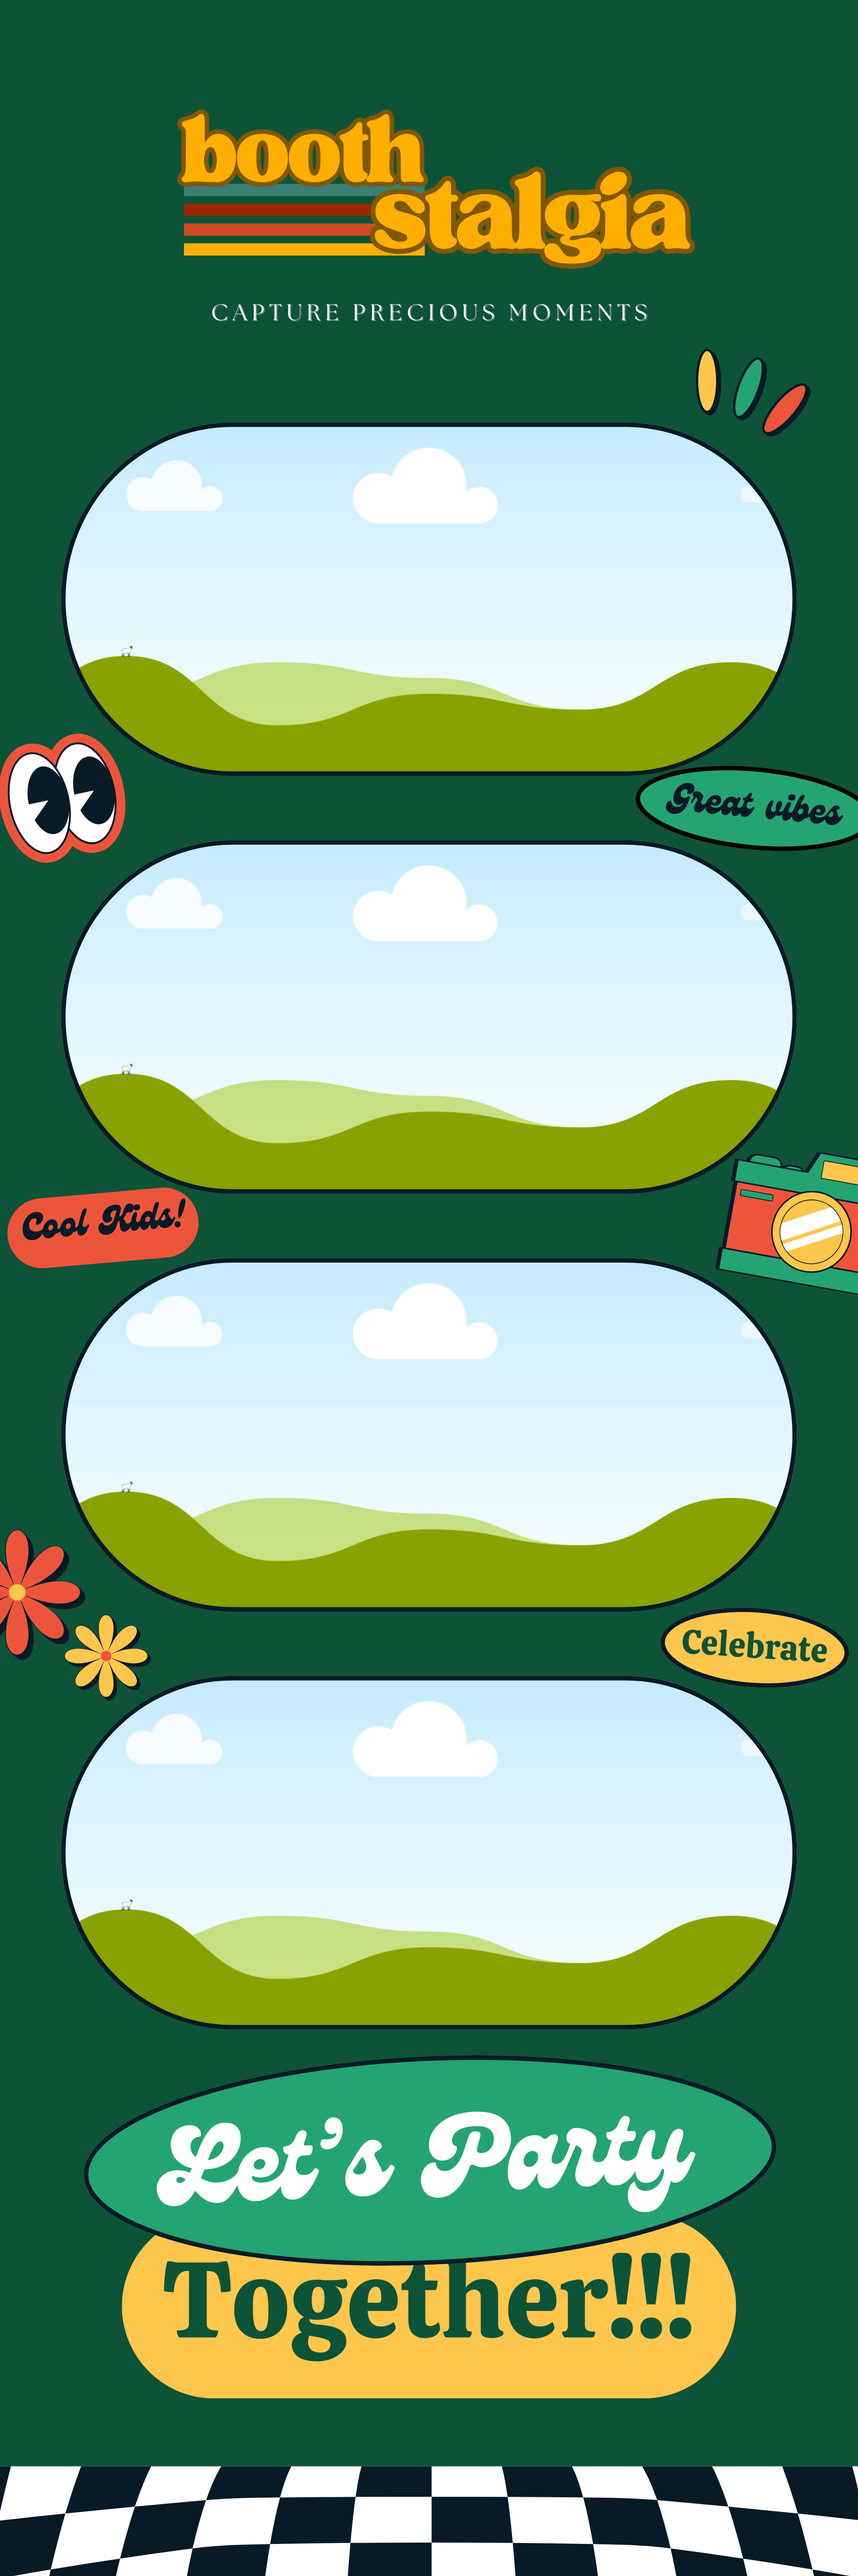
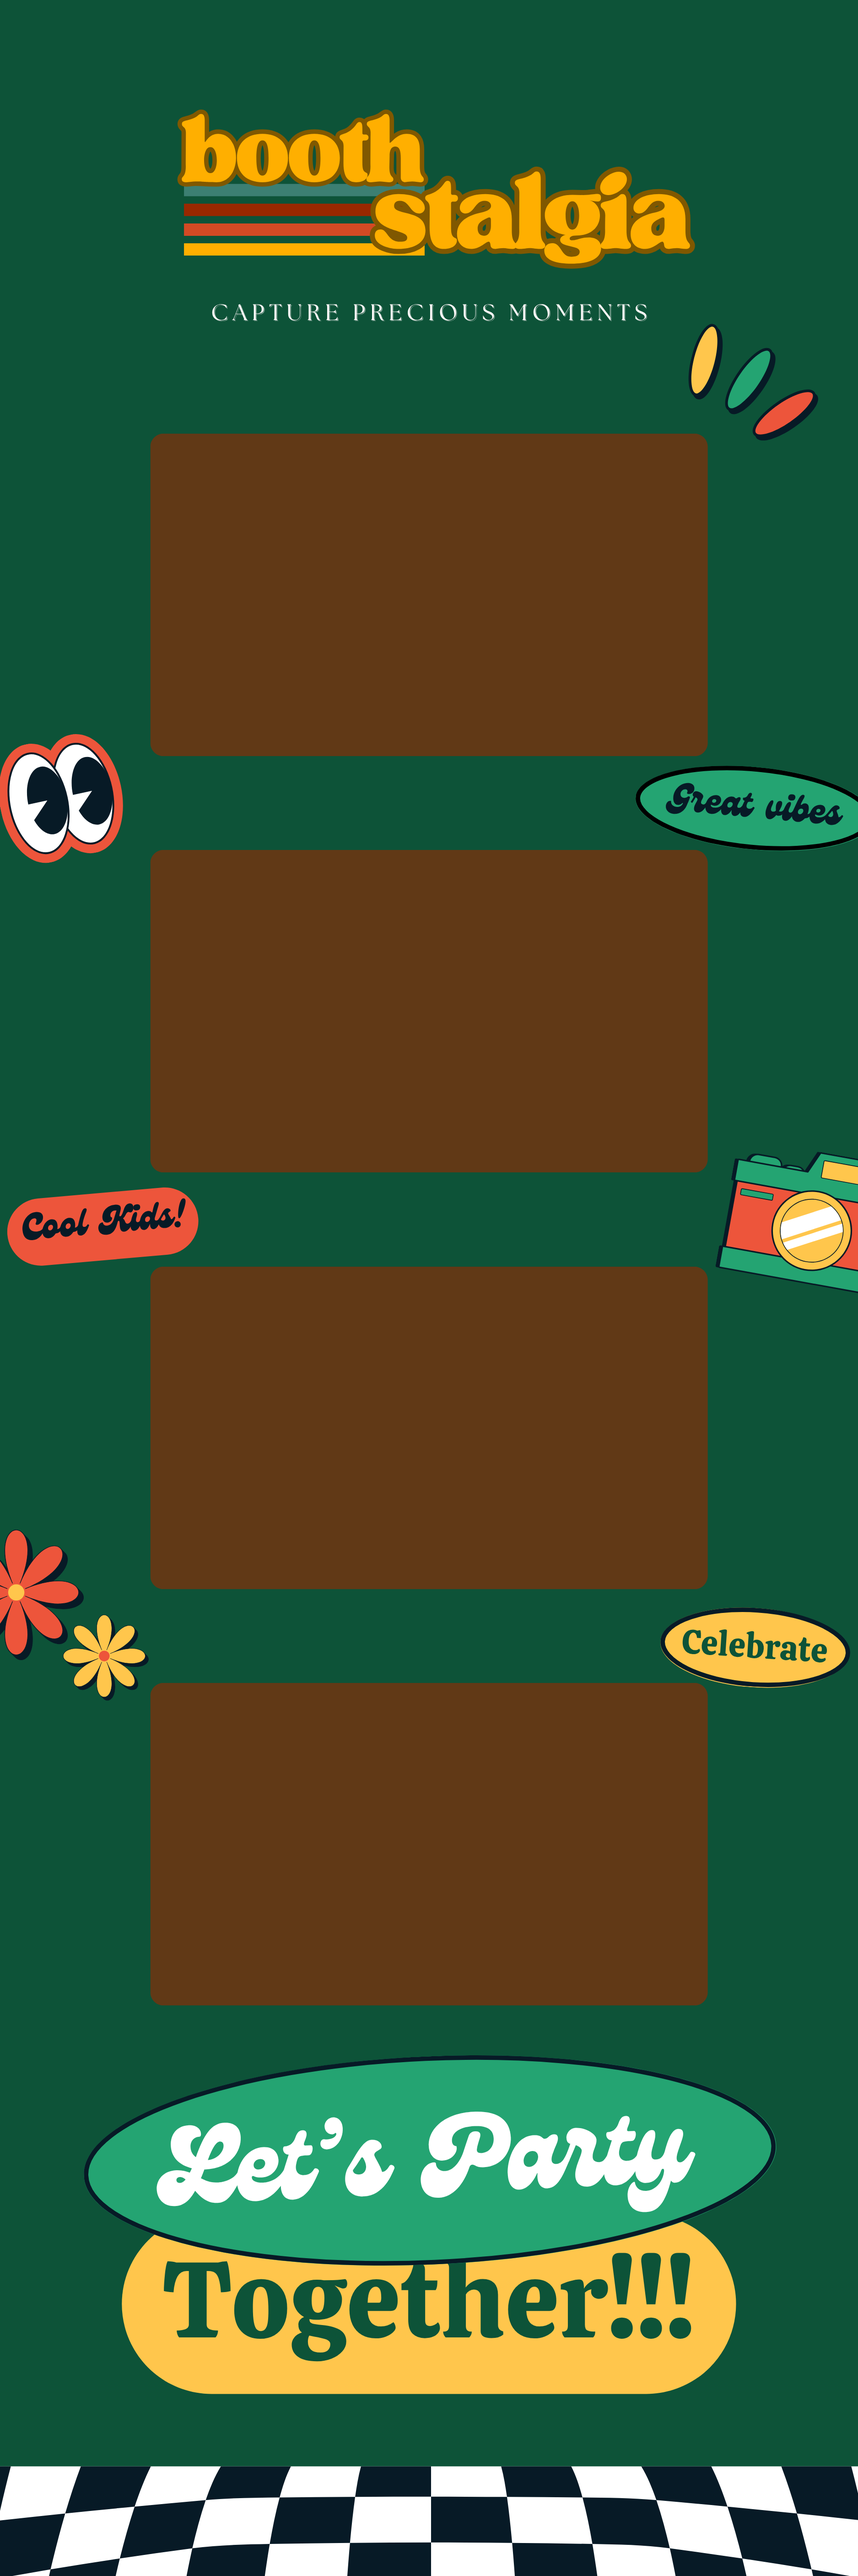
make sure everything update

diff --git a/src/components/ChooseFrame.jsx b/src/components/ChooseFrame.jsx
@@ -4,16 +4,52 @@ import React, { useRef, useEffect } from "react";
 import BoothButton from "./BoothButton";
 import { downloadImage } from "../utils/imageUtils.js";
 
-// Impor frame-frame Anda
+// 1. Impor semua gambar frame Anda
 import frame1Src from "../assets/frames/Blue-Cute-Heart.png";
-// import frame2Src from '../assets/frames/Green-Dark-Green.png';
+import frame2Src from "../assets/frames/Green-Dark-Green.png";
+import frame3Src from "../assets/frames/Green-Light-Yellow.png";
+import frame4Src from "../assets/frames/Neon-Green-Purple.png";
 
 const frameOptions = [
   { id: "frame1", src: frame1Src },
-  // { id: "frame2", src: frame2Src },
+  { id: "frame2", src: frame2Src },
+  { id: "frame3", src: frame3Src },
+  { id: "frame4", src: frame4Src },
 ];
 
-// FUNGSI BANTUAN untuk menggambar foto dengan sudut tumpul
+// 2. Buat "Peta Layout" untuk setiap frame
+// Setiap ID frame memiliki set koordinatnya sendiri.
+const frameLayouts = {
+  frame1: [
+    { x: 330, y: 620, w: 1210, h: 700, radius: 20 },
+    { x: 330, y: 1690, w: 1210, h: 700, radius: 20 },
+    { x: 330, y: 2750, w: 1210, h: 700, radius: 20 },
+    { x: 330, y: 3810, w: 1210, h: 700, radius: 20 },
+  ],
+  frame2: [
+    // PENTING: Ganti angka ini dengan hasil pengukuran Anda untuk frame2
+    { x: 325, y: 945, w: 1230, h: 710, radius: 20 },
+    { x: 325, y: 1850, w: 1230, h: 710, radius: 20 },
+    { x: 325, y: 2760, w: 1230, h: 710, radius: 20 },
+    { x: 325, y: 3670, w: 1230, h: 710, radius: 20 },
+  ],
+  frame3: [
+    // PENTING: Ganti angka ini dengan hasil pengukuran Anda untuk frame2
+    { x: 325, y: 650, w: 1230, h: 710, radius: 20 },
+    { x: 325, y: 1565, w: 1230, h: 710, radius: 20 },
+    { x: 325, y: 2475, w: 1230, h: 710, radius: 20 },
+    { x: 325, y: 3380, w: 1230, h: 710, radius: 20 },
+  ],
+  frame4: [
+    // PENTING: Ganti angka ini dengan hasil pengukuran Anda untuk frame2
+    { x: 325, y: 945, w: 1230, h: 710, radius: 20 },
+    { x: 325, y: 1850, w: 1230, h: 710, radius: 20 },
+    { x: 325, y: 2760, w: 1230, h: 710, radius: 20 },
+    { x: 325, y: 3670, w: 1230, h: 710, radius: 20 },
+  ],
+};
+
+// Fungsi bantuan untuk menggambar sudut tumpul
 function drawRoundedImage(ctx, image, x, y, width, height, radius) {
   ctx.save();
   ctx.beginPath();
@@ -27,9 +63,9 @@ function drawRoundedImage(ctx, image, x, y, width, height, radius) {
   ctx.lineTo(x, y + radius);
   ctx.quadraticCurveTo(x, y, x + radius, y);
   ctx.closePath();
-  ctx.clip(); // Terapkan clipping path
+  ctx.clip();
   ctx.drawImage(image, x, y, width, height);
-  ctx.restore(); // Hapus clipping path untuk gambar selanjutnya
+  ctx.restore();
 }
 
 function ChooseFrame({
@@ -57,8 +93,6 @@ function ChooseFrame({
     }
   };
 
-  // Ganti seluruh useEffect di ChooseFrame.jsx dengan ini:
-
   useEffect(() => {
     const canvas = canvasRef.current;
     if (!canvas || !selectedFrame || !photos || photos.length === 0) {
@@ -68,6 +102,10 @@ function ChooseFrame({
       }
       return;
     }
+
+    // 3. Ambil posisi foto secara dinamis dari peta layout
+    const photoPositions = frameLayouts[selectedFrame.id];
+    if (!photoPositions) return; // Keluar jika layout untuk frame terpilih tidak ada
 
     const ctx = canvas.getContext("2d");
     const loadImage = (src) =>
@@ -87,31 +125,16 @@ function ChooseFrame({
         canvas.width = frameImg.width;
         canvas.height = frameImg.height;
 
-        const photoPositions = [
-          { x: 330, y: 620, w: 1210, h: 700, radius: 20 },
-          { x: 330, y: 1690, w: 1210, h: 700, radius: 20 },
-          { x: 330, y: 2750, w: 1210, h: 700, radius: 20 },
-          { x: 330, y: 3810, w: 1210, h: 700, radius: 20 },
-        ];
-
-        // --- URUTAN GAMBAR DIUBAH KEMBALI ---
-
-        // 1. Gambar FRAME sebagai lapisan paling bawah
         ctx.drawImage(frameImg, 0, 0, canvas.width, canvas.height);
-
-        // 2. Terapkan filter yang dipilih
         ctx.filter = getCanvasFilter(filter);
 
-        // 3. Gambar setiap FOTO di atas frame dengan sudut tumpul
         photoImgs.forEach((pImg, index) => {
           if (photoPositions[index]) {
             const pos = photoPositions[index];
-            // Panggil fungsi bantuan untuk menggambar dengan sudut tumpul
             drawRoundedImage(ctx, pImg, pos.x, pos.y, pos.w, pos.h, pos.radius);
           }
         });
 
-        // 4. Reset filter setelah semua foto digambar
         ctx.filter = "none";
       })
       .catch((err) => console.error("Gagal memuat gambar:", err));

diff --git a/src/utils/imageUtils.js b/src/utils/imageUtils.js
@@ -10,7 +10,7 @@ export const downloadImage = (dataUrl) => {
 
   const link = document.createElement("a");
   link.href = dataUrl;
-  link.download = "boothstalgia-result.png"; // Nama file yang akan diunduh
+  link.download = "boothstalgia.png"; // Nama file yang akan diunduh
 
   // Perintah ini 'disembunyikan' dari pengguna
   document.body.appendChild(link);
